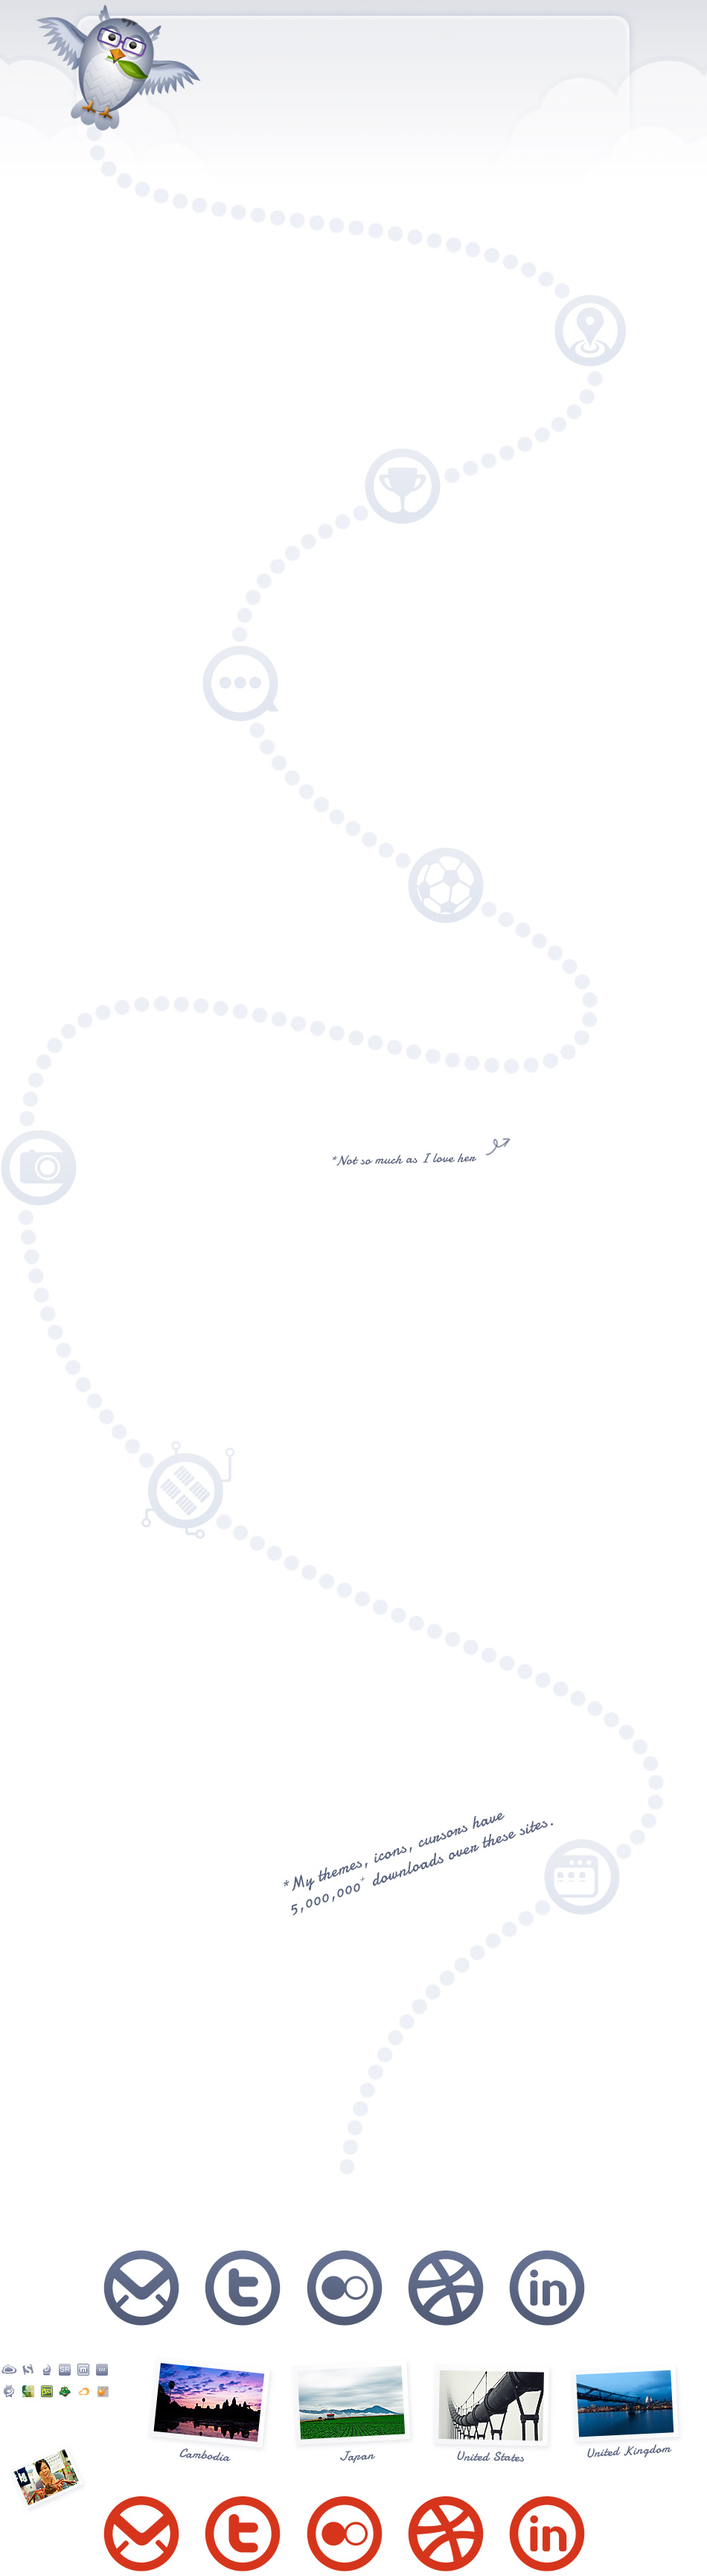
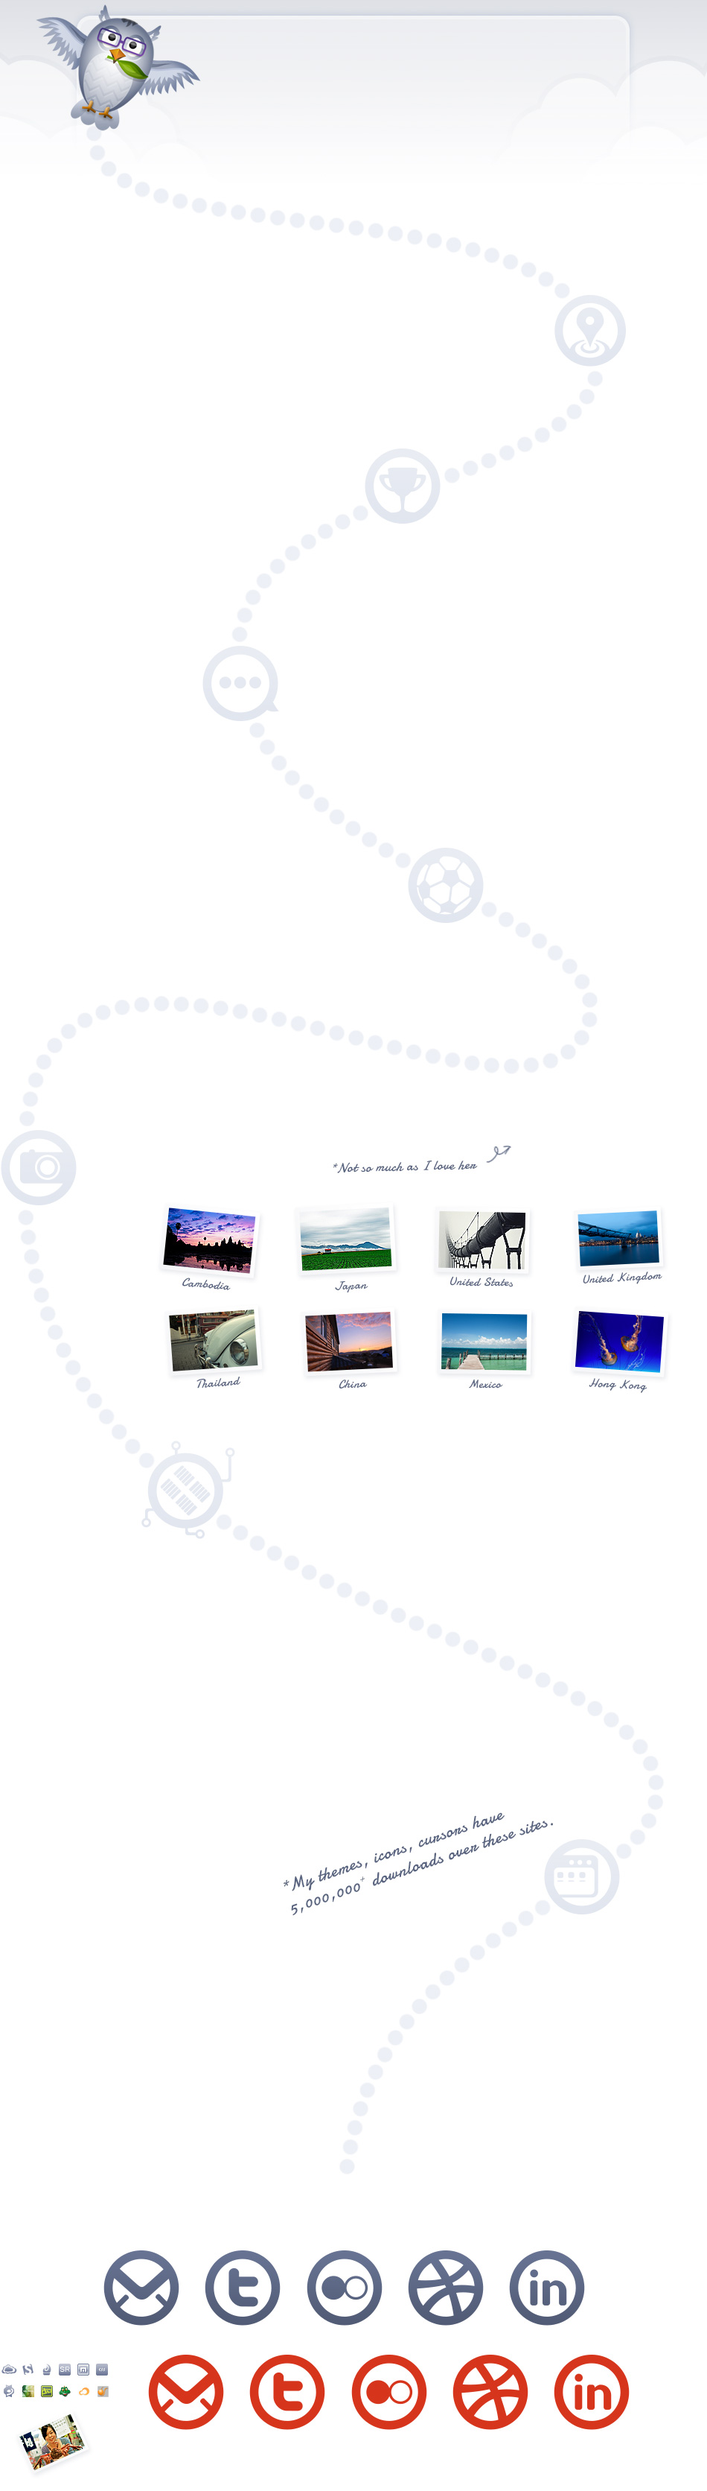
Updated about travel photos
Also added the transition for about-footer links

diff --git a/styles.css b/styles.css
@@ -479,24 +479,31 @@ h3 strong{
 .gui-text{ width:672px; height:117px; left:171px; top:2316px;}
 .gui-list{ width:552px; height:236px; left:162px; top:2428px;}
 .contact-text{ width:502px; height:117px; left:235px; top:2929px;}
-
-.about-photo,
-.contact-link{
+#about-photo{
 	position:absolute;
-	top:1609px;
-	width:190px;
-	height:175px;
-	display:block;
+	top:1586px;
+	width: 776px;
+	height: 320px;
+	left: 174px;
+	background: #fff;
 }
 .contact-link{
+	position:absolute;
 	top:3013px;
 	width:136px;
 	height:130px;	
+	display:block;
+}
+.about-photo{
+	float: left;
+	width:194px;
+	height:160px;
+	display:block;
 }
 .about-photo a,
 .contact-link a{
-	width:190px;
-	height:175px;
+	width:194px;
+	height:160px;
 	display:block;
 	text-indent:-9999px;
 	-webkit-transition:none;
@@ -509,18 +516,16 @@ h3 strong{
 .contact-link a:hover{
 	background:url('images/about-bg.jpg') no-repeat;
 }
-.about-photo-maggie{ top:1456px; left:688px; width:130px; height:99px;}
-.about-photo-maggie a{ width:120px; height:99px; background-position:-9px -3277px;}
-.about-photo-maggie a:hover{ background-position:-9px -3277px;}
-.about-photo-1{ left:186px;}
-.about-photo-2{ left:376px;}
-.about-photo-3{left:566px;}
-.about-photo-4{left:756px;}
-.about-photo-1 a{background-position:-186px -3159px;}
-.about-photo-1 a{background-position:-186px -3159px;}
-.about-photo-2 a{background-position:-376px -3159px;}
-.about-photo-3 a{background-position:-566px -3159px;}
-.about-photo-4 a{background-position:-756px -3159px;}
+.about-photo-maggie{ position:absolute;float: none;top:1456px; left:688px; width:130px; height:120px;}
+.about-photo-maggie a{ width:130px; height:120px; background-position:-10px -3224px;}
+.about-photo-1 a{background-position:-174px -1586px;}
+.about-photo-2 a{background-position:-368px -1586px;}
+.about-photo-3 a{background-position:-562px -1586px;}
+.about-photo-4 a{background-position:-756px -1586px;}
+.about-photo-5 a{background-position:-174px -1746px;}
+.about-photo-6 a{background-position:-368px -1746px;}
+.about-photo-7 a{background-position:-562px -1746px;}
+.about-photo-8 a{background-position:-756px -1746px;}
 .about-photo a{opacity: 0.5;-webkit-transition:opacity 0.3s;}
 .about-photo a:hover{opacity: 1;}
 
@@ -529,12 +534,13 @@ h3 strong{
 .contact-link-flickr{ left:394px;}
 .contact-link-dribbble{ left:530px;}
 .contact-link-linkedin{ left:666px;}
-.contact-link-message a:hover{ background-position:-122px -3343px;}
-.contact-link-twitter a:hover{ background-position:-258px -3343px;}
-.contact-link-flickr a:hover{ background-position:-394px -3343px;}
-.contact-link-dribbble a:hover{ background-position:-530px -3343px;}
-.contact-link-linkedin a:hover{ background-position:-666px -3343px;}
-
+.contact-link-message a:hover{ background-position:-182px -3153px;}
+.contact-link-twitter a:hover{ background-position:-318px -3153px;}
+.contact-link-flickr a:hover{ background-position:-454px -3153px;}
+.contact-link-dribbble a:hover{ background-position:-590px -3153px;}
+.contact-link-linkedin a:hover{ background-position:-726px -3153px;}
+.contact-link a{opacity: 0.0; -webkit-transition:opacity 0.3s;}
+.contact-link a:hover{opacity: 1;}
 .about-ul-icon{
 	width:25px;
 	height:29px;
@@ -2406,6 +2412,9 @@ ul#ds-recent-comments .ds-time{
 	.contact-link a:hover,
 	#about #inner-content{
 		background:none;
+	}
+	#about-photo{
+		display: none;
 	}
 	#about-content,#about #inner-content{
 		height:auto;

diff --git a/about.html b/about.html
@@ -92,11 +92,17 @@
 				<p class="photography-text">Also I kinda love travel &amp; <a href="photography.html" title="Go take a look at my photos">photography</a>...<span class="mobile-only"><br/>(But not as much as I love <a href="http://www.flickr.com/photos/jjying/4981896384/">her</a>)</span></p>
 
 				<div class="about-photo about-photo-maggie"><a href="http://www.flickr.com/photos/jjying/4981896384/" title="Maggie">Maggie</a></div>
+				<div id="about-photo">
+					<div class="about-photo about-photo-1"><a href="http://www.flickriver.com/photos/jjying/tags/cambodia/" title="Cambodia photos">Cambodia</a></div>
+					<div class="about-photo about-photo-2"><a href="http://www.flickriver.com/photos/jjying/tags/japan/" title="Japan photos">Japan</a></div>
+					<div class="about-photo about-photo-3"><a href="http://www.flickriver.com/photos/jjying/tags/us/" title="US photos">US</a></div>
+					<div class="about-photo about-photo-4"><a href="http://www.flickriver.com/photos/jjying/tags/uk/" title="UK photos">UK</a></div>
+					<div class="about-photo about-photo-5"><a href="http://www.flickriver.com/photos/jjying/tags/thailand/" title="Thailand photos">Cambodia</a></div>
+					<div class="about-photo about-photo-6"><a href="http://www.flickriver.com/photos/jjying/tags/china/" title="China photos">Japan</a></div>
+					<div class="about-photo about-photo-7"><a href="http://www.flickriver.com/photos/jjying/tags/mexico/" title="Mexico photos">US</a></div>
+					<div class="about-photo about-photo-8"><a href="http://www.flickriver.com/photos/jjying/tags/hongkong/" title="Hong Kong photos">UK</a></div>
+				</div>
 
-				<div class="about-photo about-photo-1"><a href="http://www.flickriver.com/photos/jjying/tags/cambodia/" title="View photos on Flickr">Cambodia</a></div>
-				<div class="about-photo about-photo-2"><a href="http://www.flickriver.com/photos/jjying/tags/japan/" title="View photos on Flickr">Japan</a></div>
-				<div class="about-photo about-photo-3"><a href="http://www.flickr.com/photos/jjying/collections/72157624130913028/" title="View photos on Flickr">US</a></div>
-				<div class="about-photo about-photo-4"><a href="http://www.flickriver.com/photos/jjying/tags/uk/" title="View photos on Flickr">UK</a></div>
 
 
 				<p class="knowmore-text">Want to know a bit more about my<br/> background?  Well, I majored in<br/> <a href="http://en.wikipedia.org/wiki/Microelectronics">Microelectronics</a>, but...</p>
